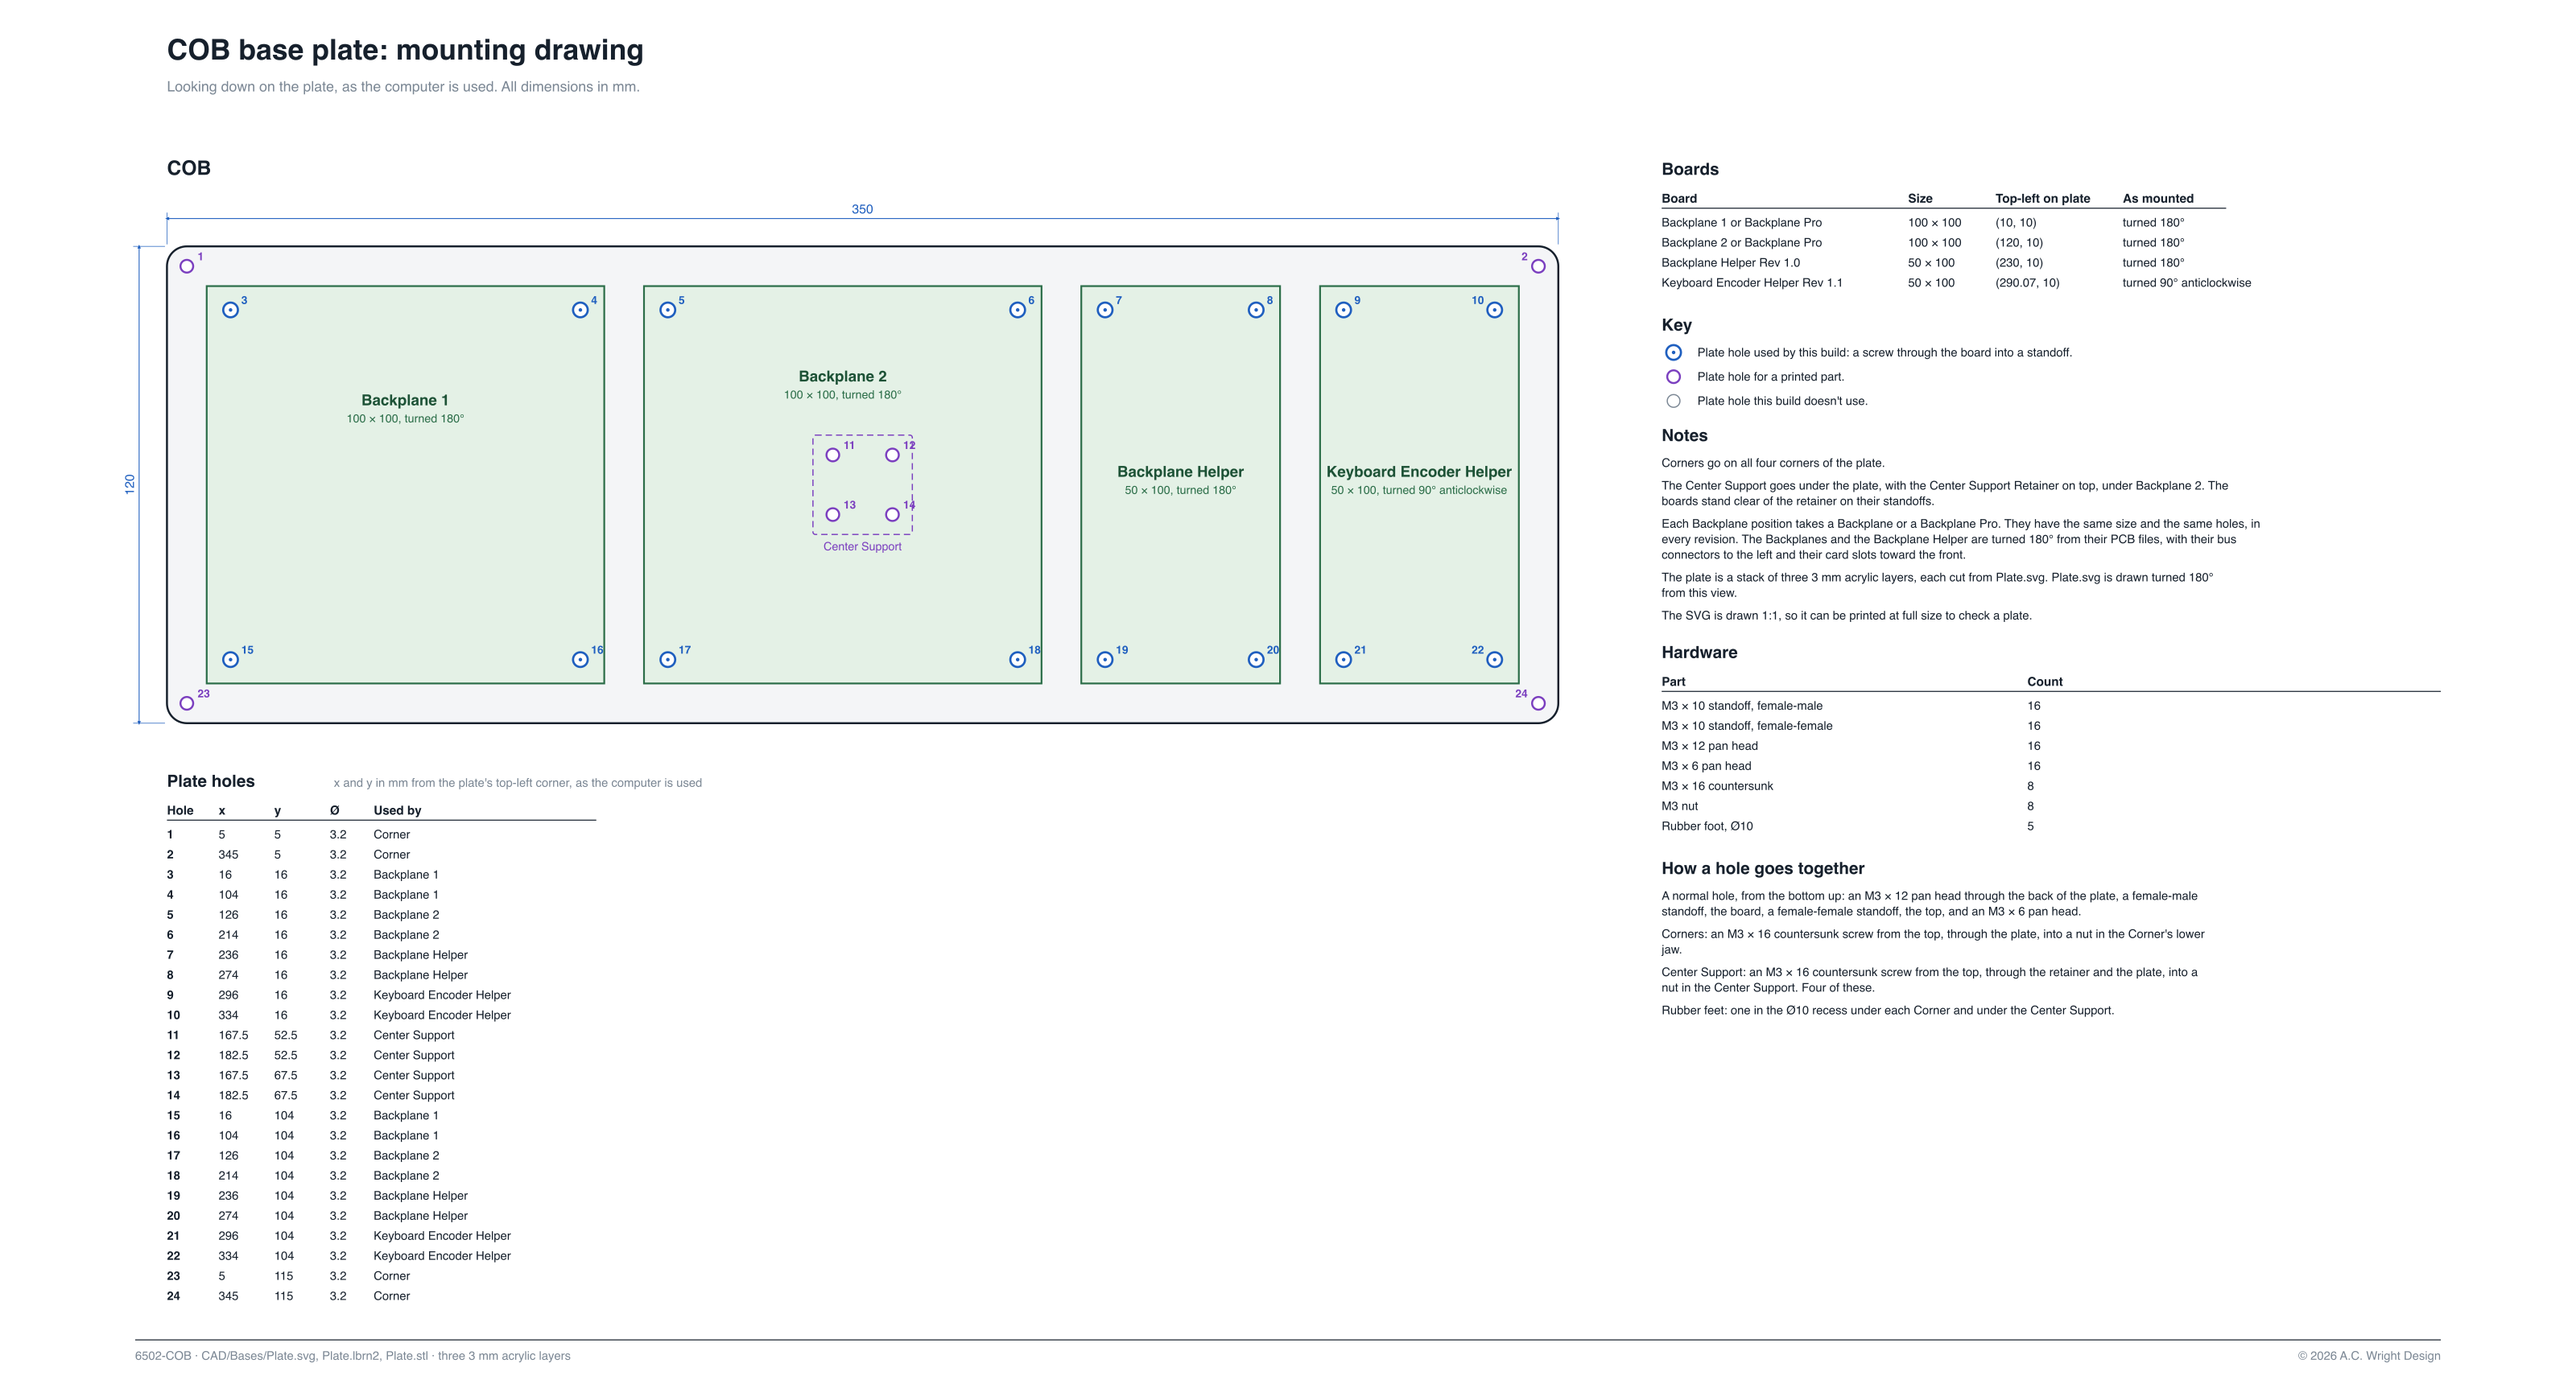
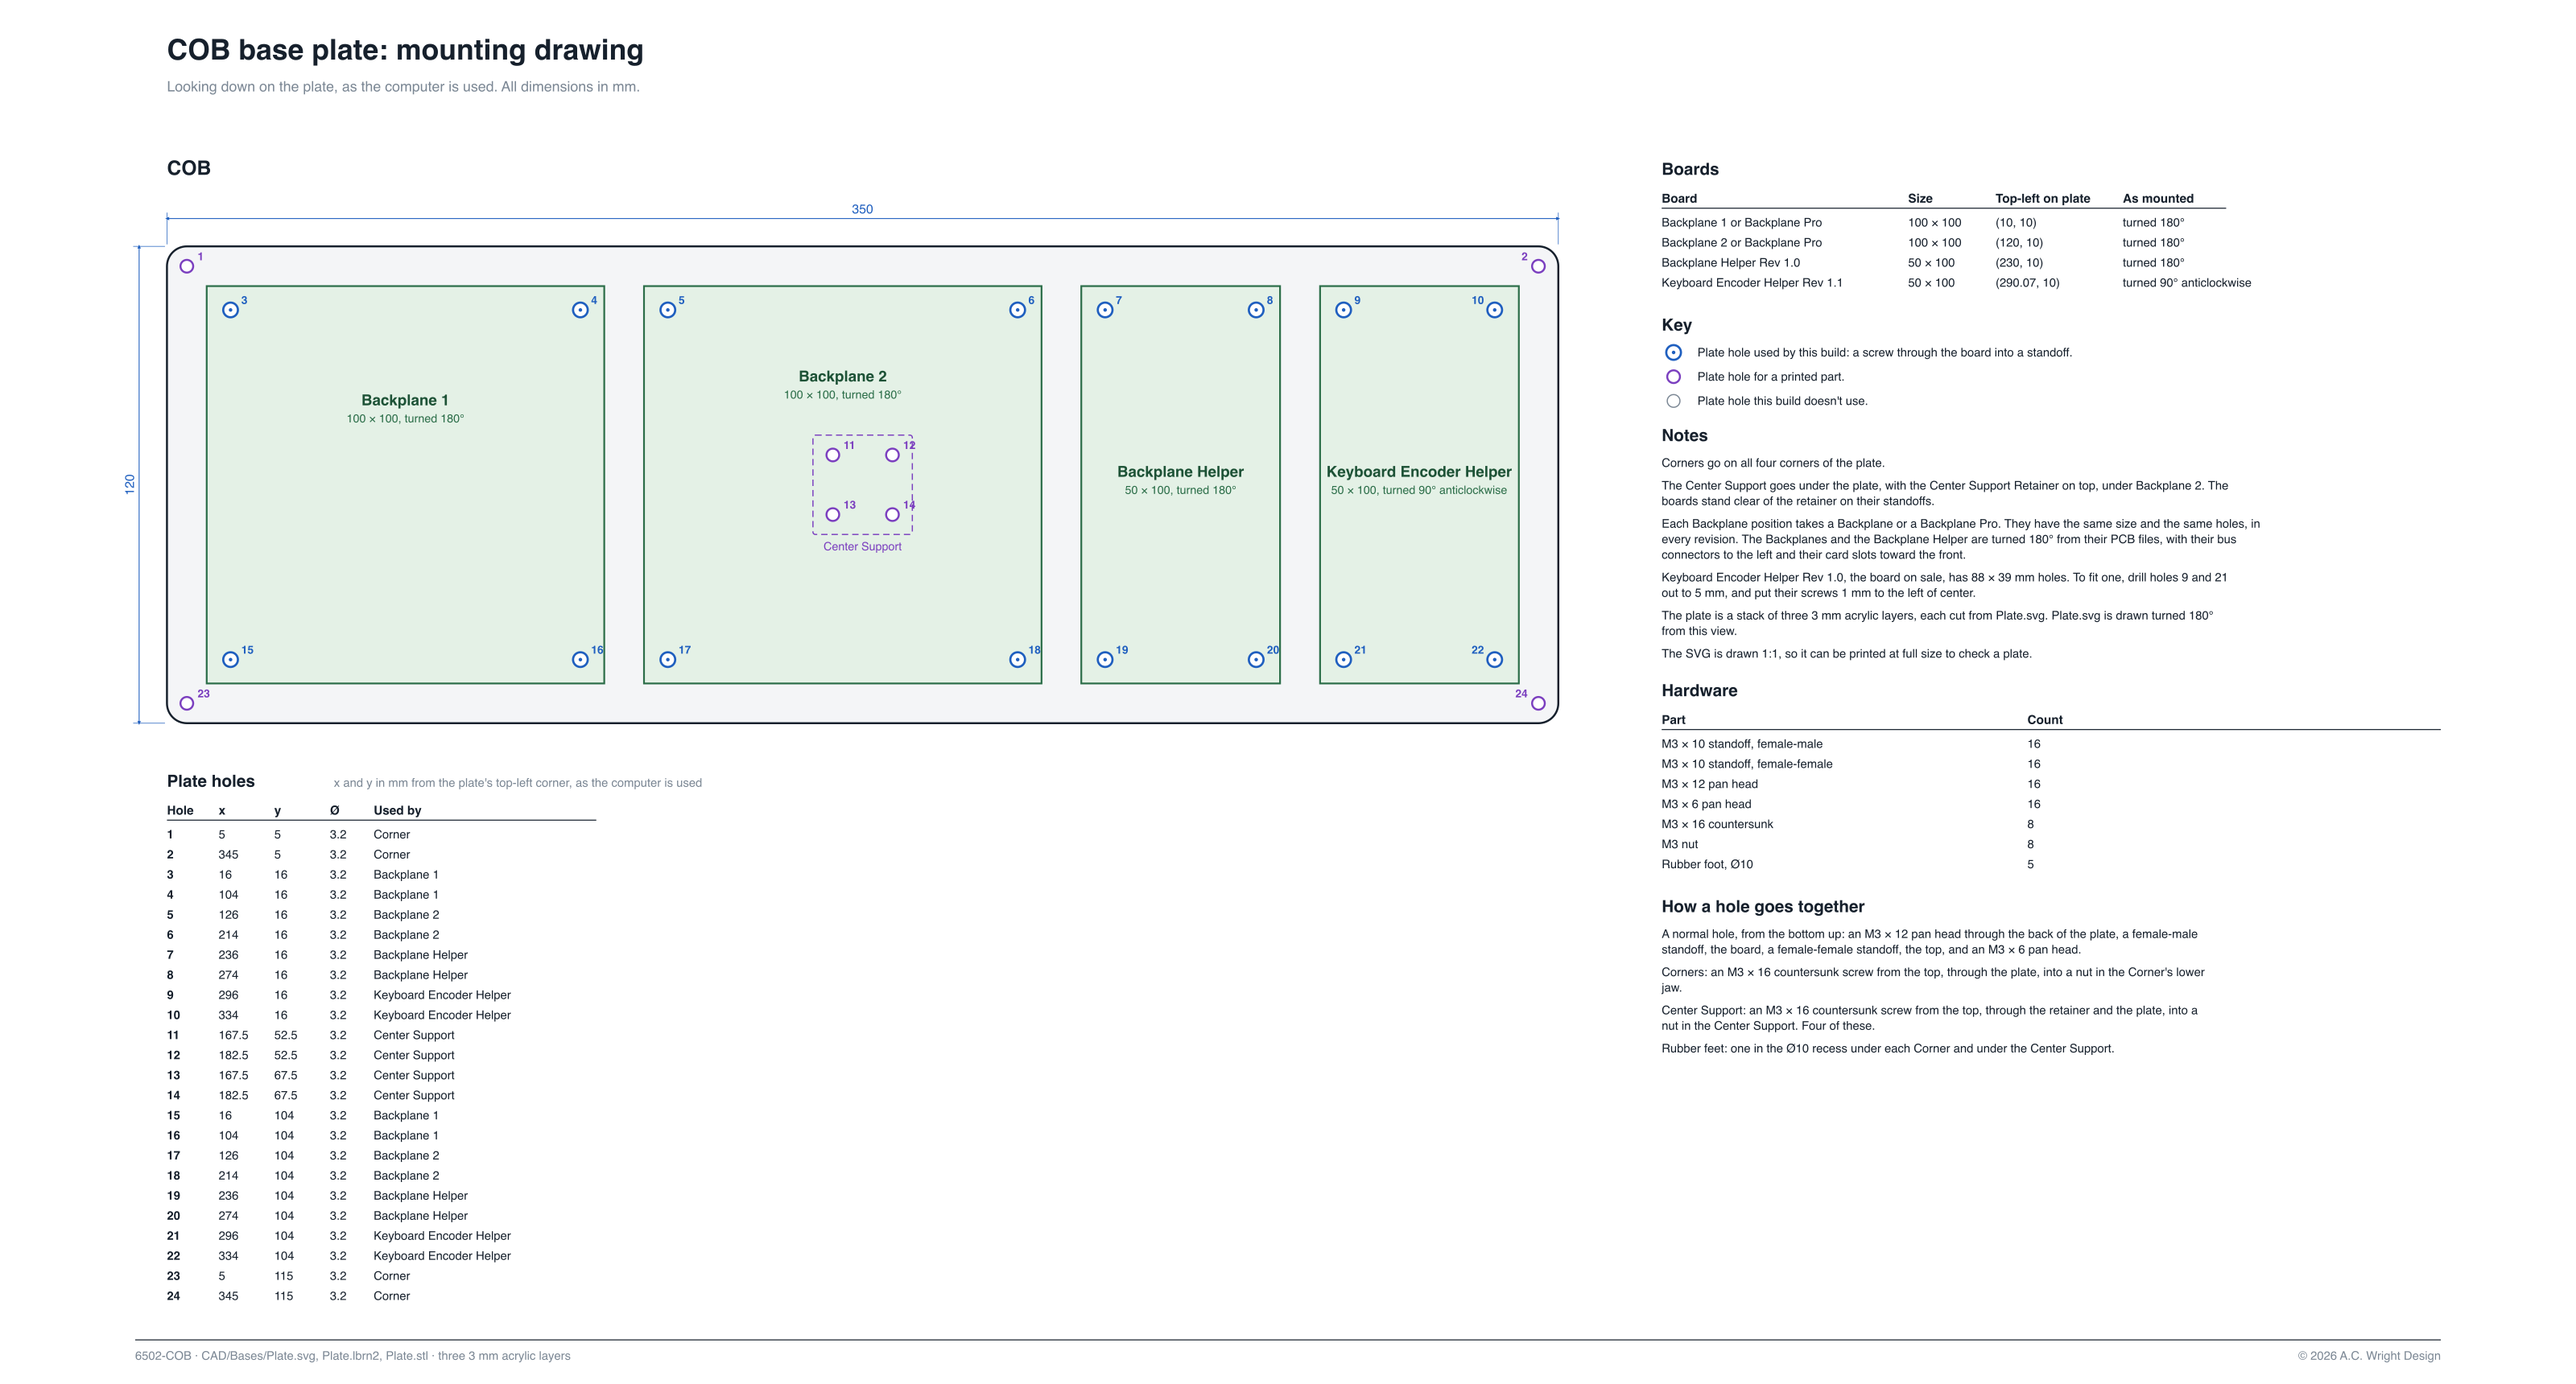
Keyboard Encoder Helper Rev 1.0: how to fit it on the COB plate
Rev 1.0 has 88 x 39 mm holes and the plate is drilled for 88 x 38 mm, so
two plate holes are drilled out to 5 mm. README, the plate mounting drawing
and REVISIONS now say so. The plate itself doesn't change.

Also record that CPU Card Pro's title block credit is deliberate, and that
Joystick Helper Rev 1.1's courtyard overlap with J2 has been reviewed.

Changed region(s): [[0.625, 0.4006, 0.8438, 0.7703], [0.7812, 0.493, 0.8125, 0.5238]]

diff --git a/README.md b/README.md
@@ -130,7 +130,7 @@ This repository contains KiCad 7.0+ PCB designs for the backplanes, cards, and h
 
 **`Hardware/CPU Card/`** — Hosts the 65C02 CPU in a card form factor for backplane-based COB systems.
 
-**`Hardware/CPU Card Pro/`** — Hosts a 65816 16-bit CPU (backward-compatible with 65C02). *(Untested)*
+**`Hardware/CPU Card Pro/`** — Hosts a 65816 16-bit CPU (backward-compatible with 65C02). *(Untested)* Its title block credits bahamutkotd, who contributed.
 
 **`Hardware/Memory Card/`** — Provides 32KB SRAM and 32KB EEPROM with address decoding logic for COB systems using the CPU Card.
 
@@ -262,7 +262,7 @@ See [Firmware/STP Controller/README.md](./Firmware/STP%20Controller/README.md) f
 
 **Top panels, enclosures and jigs are versioned by board revision**, like `Hardware/`: `CAD/Tops/<Board>/Rev X/`, `CAD/Enclosures/<Board>/Rev X/`, `CAD/Jigs/<Board>/Rev X/`. Each revision has its own complete folder, even when two revisions share the same files. `Bases/` holds the parts for a whole computer, not for one board, so it isn't versioned.
 
-Keyboard Encoder Helper Rev 1.0 has the old 88 × 39 mm holes, so it doesn't fit the standoffs on the COB's base plate, which is drilled for Rev 1.1's 88 × 38 mm. The plate mounting drawing shows Rev 1.1.
+Keyboard Encoder Helper Rev 1.0, the board on sale, has the old 88 × 39 mm holes, and the COB's base plate is drilled for Rev 1.1's 88 × 38 mm. To fit a Rev 1.0 board, drill plate holes 9 and 21 (x 296, at y 16 and y 104 on the plate mounting drawing) out to 5 mm. The two screws then sit 1 mm to the left of those holes' centers, and the board moves less than 1 mm into the 10 mm gap beside the Backplane Helper. Drill through all three layers of the plate, and add a washer if a screw head doesn't sit flat. The plate mounting drawing itself shows Rev 1.1.
 
 The Rev 1.0 top panels for the Clock, DB25, GPIO, Joystick and Keyboard Encoder Helpers, and the Rev 1.1 top panel for the PS2 Helper, are SVG only. They are derived from the other revision's panel by moving the four mounting holes, and none has been cut yet.
 
@@ -607,7 +607,7 @@ Rev 1.0 has been ordered. No card has been built or tested yet. The card's oscil
 
 **Rev 1.1** (drawn, not yet made; Rev 1.0 is sold first)
 
-- Moves the four mounting holes (`H1`–`H4`) to the standard position, 6 mm from each edge. The spacing goes from 39 × 39 mm to 38 × 38 mm. Each revision has its own enclosure and top panel, in `CAD/Enclosures/Joystick Helper/` and `CAD/Tops/Joystick Helper/`. The holes' courtyards now overlap J2's. The project excludes that from DRC, but check the fit before ordering.
+- Moves the four mounting holes (`H1`–`H4`) to the standard position, 6 mm from each edge. The spacing goes from 39 × 39 mm to 38 × 38 mm. Each revision has its own enclosure and top panel, in `CAD/Enclosures/Joystick Helper/` and `CAD/Tops/Joystick Helper/`. The holes' courtyards now overlap the courtyard of J2, the DB9 connector. That has been reviewed and is fine, so the project excludes it from DRC.
 
 **Rev 1.0**
 
@@ -630,6 +630,7 @@ Rev 1.0 has been ordered. No card has been built or tested yet. The card's oscil
 **Rev 1.0**
 
 - Initial release, and the board on sale. `Hardware/Keyboard Encoder Helper/Rev 1.0/` and `Production/Keyboard Encoder Helper/Rev 1.0/` match the boards JLCPCB made (order Y72). The Gerbers and drill files in the production zip are byte-for-byte what JLCPCB received.
+- To mount it on the COB's base plate, two plate holes have to be drilled wider: see [CAD](#cad).
 
 | Reference | Qty | Value | Description | DigiKey |
 |-----------|-----|-------|-------------|---------|

diff --git a/REVISIONS.md b/REVISIONS.md
@@ -24,7 +24,7 @@ Every revision of every board in this repository, and what is known about each. 
 | Breadboard Helper | 1.0 | To confirm |  |  |  | 3 | 75×55 | — | — | — |  |
 | CPU Card | 1.0 | Made, checked | Y18 | 2024-04-03 | `da975a6` | 4 | 100×57.62 | — | — | — |  |
 | CPU Card | 1.1 | Drawn |  |  |  | — | 100×57.62 | — | — | — |  |
-| CPU Card Pro | 1.0 | Never made |  |  |  | — | 100×57.62 | — | — | — | PCB company 'A.C. Wright Design / bahamutkotd'; schematic company 'A.C. Wright Design / bahamutkotd' |
+| CPU Card Pro | 1.0 | Never made |  |  |  | — | 100×57.62 | — | — | — | title block credits bahamutkotd, who contributed |
 | Clock Card | 1.0 | Ordered |  |  |  | — | 100×57.62 | — | — | — | Order 1, placed 2026-11-02 |
 | Clock Helper | 1.0 | Made, checked | Y74 | 2025-11-21 | `65a5e49` | 4 | 50×50 | 5.32–5.68 mm | SVG only | yes |  |
 | Clock Helper | 1.1 | Drawn |  |  |  | — | 50×50 | 6 mm | yes | yes |  |
@@ -36,7 +36,7 @@ Every revision of every board in this repository, and what is known about each. 
 | GPIO Helper | 1.1 | Drawn |  |  |  | — | 100×50 | 6 mm | yes | yes |  |
 | Joystick Helper | 1.0 | Made, checked | Y73 | 2025-11-16 | `4f73288` | 4 | 50×50 | 5.32–5.68 mm | SVG only | yes |  |
 | Joystick Helper | 1.1 | Drawn |  |  |  | — | 50×50 | 6 mm | yes | yes |  |
-| Keyboard Encoder Helper | 1.0 | Made, checked | Y72 | 2025-11-14 | `4470a4f` | 4 | 100×50 | 5.32–6.25 mm | SVG only | yes |  |
+| Keyboard Encoder Helper | 1.0 | Made, checked | Y72 | 2025-11-14 | `4470a4f` | 4 | 100×50 | 5.32–6.25 mm | SVG only | yes | to fit the COB plate, drill plate holes 9 and 21 out to 5 mm: see the README |
 | Keyboard Encoder Helper | 1.1 | Drawn |  |  |  | — | 100×50 | 6 mm | yes | yes |  |
 | Keyboard Helper | 1.0 | Made, checked | Y70 | 2025-10-27 | `3b654ed` | 4 | 335×125 | 5 mm | — | yes |  |
 | LCD Board | 1.0 | To confirm |  |  |  | — | 100×100 | 6 mm | yes | — |  |
